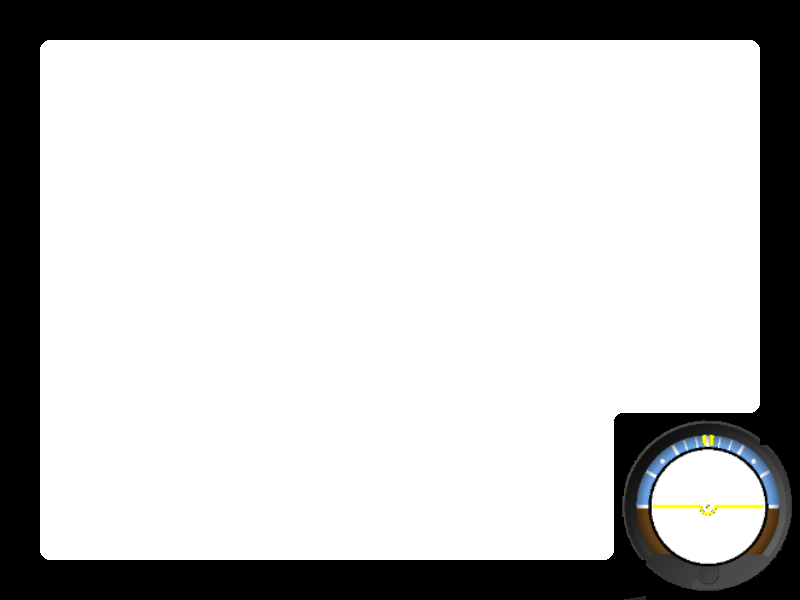
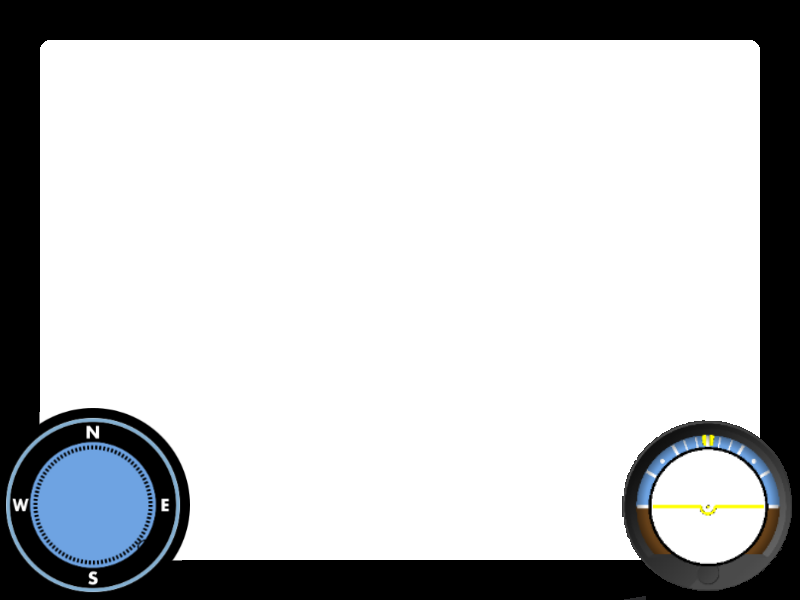
New HUD
Added new HUD background, new Compass
Compass needs work, not pointing correct

Changed region(s): [[0.0, 0.66, 0.25, 0.99], [0.75, 0.69, 0.9688, 0.93]]

diff --git a/core/src/edu/uhcl/team_drone/ui/CompassIndicator.java b/core/src/edu/uhcl/team_drone/ui/CompassIndicator.java
@@ -1,0 +1,52 @@
+package edu.uhcl.team_drone.ui;
+
+import com.badlogic.gdx.graphics.Texture;
+import com.badlogic.gdx.math.Vector2;
+import com.badlogic.gdx.scenes.scene2d.ui.Image;
+import com.badlogic.gdx.scenes.scene2d.ui.Stack;
+import com.badlogic.gdx.scenes.scene2d.ui.Table;
+import edu.uhcl.team_drone.assets.Assets;
+import edu.uhcl.team_drone.drone.Drone;
+
+// This class is responsible for updating and displaying the HUD's 
+// adirection indicator, which displays Compass directions
+
+public class CompassIndicator {
+    
+    private static final Vector2 INDICATOR_SIZE = new Vector2(150, 150);
+
+    // portion of the indicator that rotates
+    private Image indicatorMoving;
+
+    // keeps track of the initial position for the moving indicator
+    private float indicatorHomePos;
+    
+    public CompassIndicator(Table tableIn){
+        // container that holds two objects on top of each other
+        Stack stack = new Stack();
+
+        // make bg for indicator and add it to stack
+        Image indicatorStaticBG = new Image(
+                Assets.manager.get("2d/hud/CompassOuter.png", Texture.class));
+        stack.add(indicatorStaticBG);
+
+        // moving portion of the attitude indicator, add to stack
+        indicatorMoving = new Image(
+                Assets.manager.get("2d/hud/CompassInner.png", Texture.class));
+        stack.add(indicatorMoving);
+
+        // position the stack into the table
+        tableIn.add(stack).size(INDICATOR_SIZE.x, INDICATOR_SIZE.y);
+        indicatorMoving.setOrigin(INDICATOR_SIZE.x / 2, INDICATOR_SIZE.y / 2);
+        tableIn.left().bottom();
+        indicatorHomePos = indicatorMoving.getRotation();
+    }
+    
+    protected void update(Drone droneIn){
+        float droneAngle = droneIn.gyroCmpnt.getCurrentYaw();
+        indicatorMoving.setRotation(-droneAngle);
+        System.out.println(droneAngle);
+        
+    }
+
+}

diff --git a/core/src/edu/uhcl/team_drone/ui/PlayUI.java b/core/src/edu/uhcl/team_drone/ui/PlayUI.java
@@ -18,6 +18,7 @@ public class PlayUI {
     private Drone drone;
     
     private AttitudeIndicator attitudeIndicator;    
+    private CompassIndicator compassIndicator;
 
     private Stage stage;   
 
@@ -26,30 +27,45 @@ public class PlayUI {
         
         // make stage, let it acept input for button clicks, etc
         stage = new Stage();
+        
         Gdx.input.setInputProcessor(stage);        
 
-        //table to organize hud
-        Table table = new Table();
-        table.setFillParent(true);
-        
-        // create and add the attitude indicator to HUD
-        attitudeIndicator = new AttitudeIndicator(table);
-        stage.addActor(table);
-        
-        // create and add the background hud image
+         // create and add the background hud image
         Image hudBackground = new Image(Assets.manager.get("2d/hud/uiFrames.png", Texture.class));
         hudBackground.setWidth(stage.getWidth());
         hudBackground.setHeight(stage.getHeight());
+        //hudBackground.setZIndex(0);
         stage.addActor(hudBackground);
+        
+        //table to organize hud
+        Table table = new Table();        
+        table.setFillParent(true);
+        
+        // create and add the attitude indicator to HUD        
+        attitudeIndicator = new AttitudeIndicator(table);
+        stage.addActor(table);
+        
+//        // create and add compass
+        Table compassTable = new Table();
+        compassIndicator = new CompassIndicator(compassTable);
+        
+        stage.addActor(compassTable);
+       
+        
+       
 
     }
 
     public void render(float dt) {
+        
         attitudeIndicator.update(drone);
+        compassIndicator.update(drone);
         stage.act();
         stage.draw();
+
     }
-    public void dispose(){
+
+    public void dispose() {
         stage.dispose();
     }
 }

diff --git a/core/src/edu/uhcl/team_drone/ui/AttitudeIndicator.java b/core/src/edu/uhcl/team_drone/ui/AttitudeIndicator.java
@@ -24,10 +24,10 @@ public class AttitudeIndicator {
 
         // container that holds two objects on top of each other
         Stack stack = new Stack();
-        
+
         // make bg for indicator and add it to stack
         Image indicatorStaticBlueBG = new Image(
-                Assets.manager.get("2d/hud/Attitude-Inner-Small.png", Texture.class));        
+                Assets.manager.get("2d/hud/Attitude-Inner-Small.png", Texture.class));
         stack.add(indicatorStaticBlueBG);
 
         // moving portion of the attitude indicator, add to stack
@@ -37,12 +37,13 @@ public class AttitudeIndicator {
 
         // static portion of indicator, add to stack
         Image indicatorStatic = new Image(
-                Assets.manager.get("2d/hud/Attitude-Outer-Small.png", Texture.class));        
+                Assets.manager.get("2d/hud/Attitude-Outer-Small.png", Texture.class));
         indicatorStatic.setOrigin(indicatorStatic.getWidth() / 2, indicatorStatic.getHeight() / 2);
         stack.add(indicatorStatic);
 
         // position the stack into the table
         table.add(stack).size(INDICATOR_SIZE.x, INDICATOR_SIZE.y);
+
         indicatorMoving.setOrigin(INDICATOR_SIZE.x / 2, INDICATOR_SIZE.y / 2);
         table.right().bottom();
         indicatorHomePos = indicatorMoving.getY();

diff --git a/core/src/edu/uhcl/team_drone/assets/Assets.java b/core/src/edu/uhcl/team_drone/assets/Assets.java
@@ -57,10 +57,17 @@ public class Assets {
         manager.load("blue_panel.png", Texture.class);
         manager.load("blue_button13.png", Texture.class);       
         
+        // attitude indicator
         manager.load("2d/hud/Attitude-Background.png", Texture.class);
         manager.load("2d/hud/Attitude-Inner-Lines.png", Texture.class);
         manager.load("2d/hud/Attitude-Inner-Small.png", Texture.class);
         manager.load("2d/hud/Attitude-Outer-Small.png", Texture.class);
+        
+        // compass 
+        manager.load("2d/hud/CompassInner.png", Texture.class);
+        manager.load("2d/hud/CompassOuter.png", Texture.class);
+        
+        // HUD frame
         manager.load("2d/hud/uiFrames.png", Texture.class);
         
         
